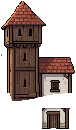
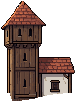
Scène du Château : sans les morceaux détachés des bâtiments
La coupe sous la colline laissait des morceaux isolés : la porte de la Tour des archers, visible sous la colline près du
marché, et quelques pixels perdus (château fort, citadelle, portail, tour des griffons…). ville_scene.py retire les
morceaux plus petits qu'un cinquième du plus grand (l'étal du marché reste).

diff --git a/tools/art/ville_scene.py b/tools/art/ville_scene.py
@@ -42,6 +42,31 @@ def bande(im):
     return im.crop((0, HAUT, im.width, HAUT + HAUTEUR))
 
 
+def sans_miettes(im, part=0.2):
+    """Retire les morceaux détachés du bâtiment (8-connexes) plus petits que `part` du plus grand : ce que la coupe sous la
+    colline laisse isolé (la porte de la Tour des archers, sous la colline) et les pixels perdus."""
+    a = im.getchannel("A"); w, h = im.size; p = a.load(); vu = set(); morceaux = []
+    for y in range(h):
+        for x in range(w):
+            if p[x, y] and (x, y) not in vu:
+                pile, morceau = [(x, y)], []; vu.add((x, y))
+                while pile:
+                    i, j = pile.pop(); morceau.append((i, j))
+                    for u in (i - 1, i, i + 1):
+                        for v in (j - 1, j, j + 1):
+                            if 0 <= u < w and 0 <= v < h and p[u, v] and (u, v) not in vu:
+                                vu.add((u, v)); pile.append((u, v))
+                morceaux.append(morceau)
+    if not morceaux:
+        return im
+    plus_grand = max(len(m) for m in morceaux)
+    for m in morceaux:
+        if len(m) < part * plus_grand:
+            for xy in m: p[xy] = 0
+    im = im.copy(); im.putalpha(a)
+    return im
+
+
 def rogner(im, marge=0):
     """L'image coupée à son dessin (une marge transparente autour, pour le contour du survol) et son coin dans la bande."""
     x0, y0, x1, y1 = im.getbbox()
@@ -79,7 +104,7 @@ def main():
     for k in sorted(ids, key=lambda k: -places[k]["profondeur"]):
         p = places[k]
         b = Image.open(os.path.join(src, "peints", k + ".png")).convert("RGBA").crop((0, 0, p["largeur"], p["hauteur"]))
-        toile = Image.new("RGBA", decor.size); toile.alpha_composite(sous_le_sol(src, k, p, b), (p["x"], p["y"]))
+        toile = Image.new("RGBA", decor.size); toile.alpha_composite(sans_miettes(sous_le_sol(src, k, p, b)), (p["x"], p["y"]))
         im, x, y = rogner(bande(toile), marge=1)
         im.save(os.path.join(dest, k + ".png"))
         entree = {"id": k, "x": x, "y": y, "depth": p["profondeur"]}
